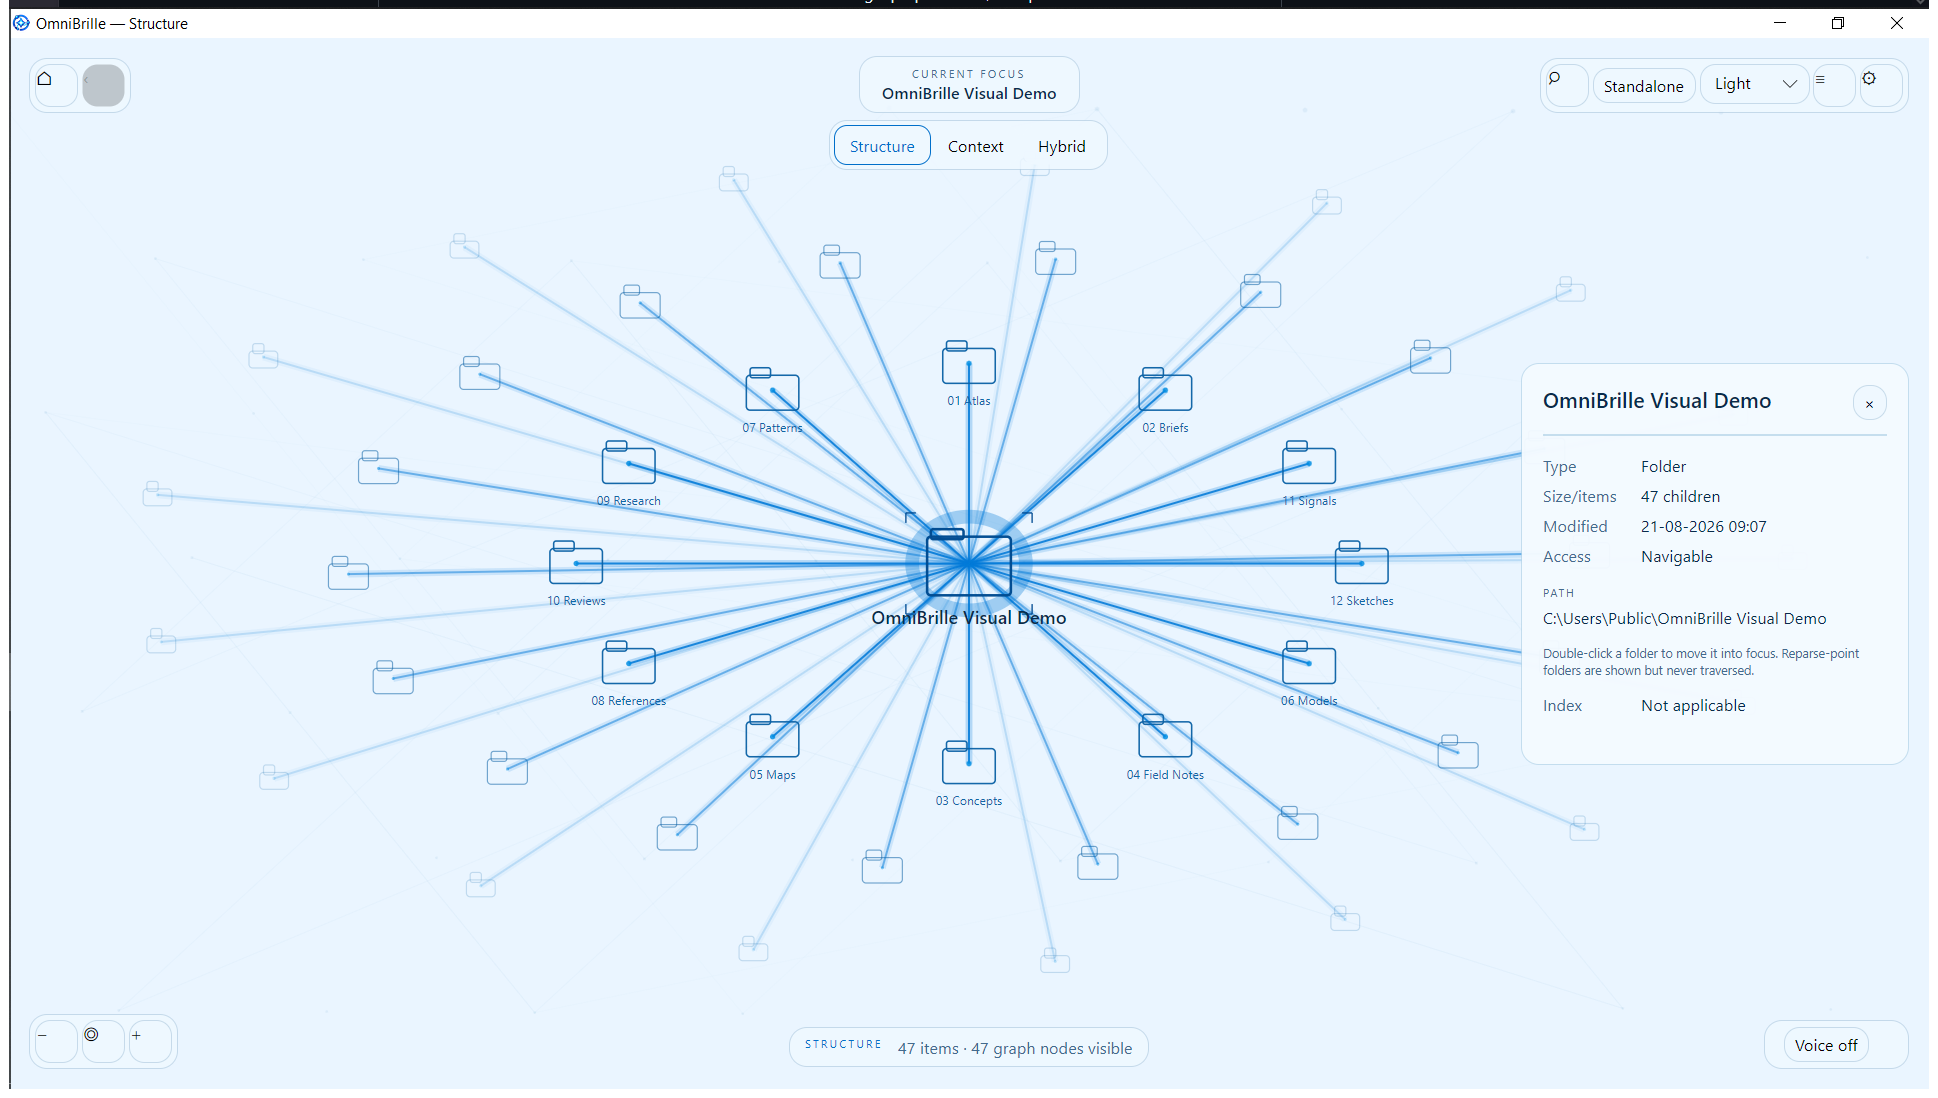
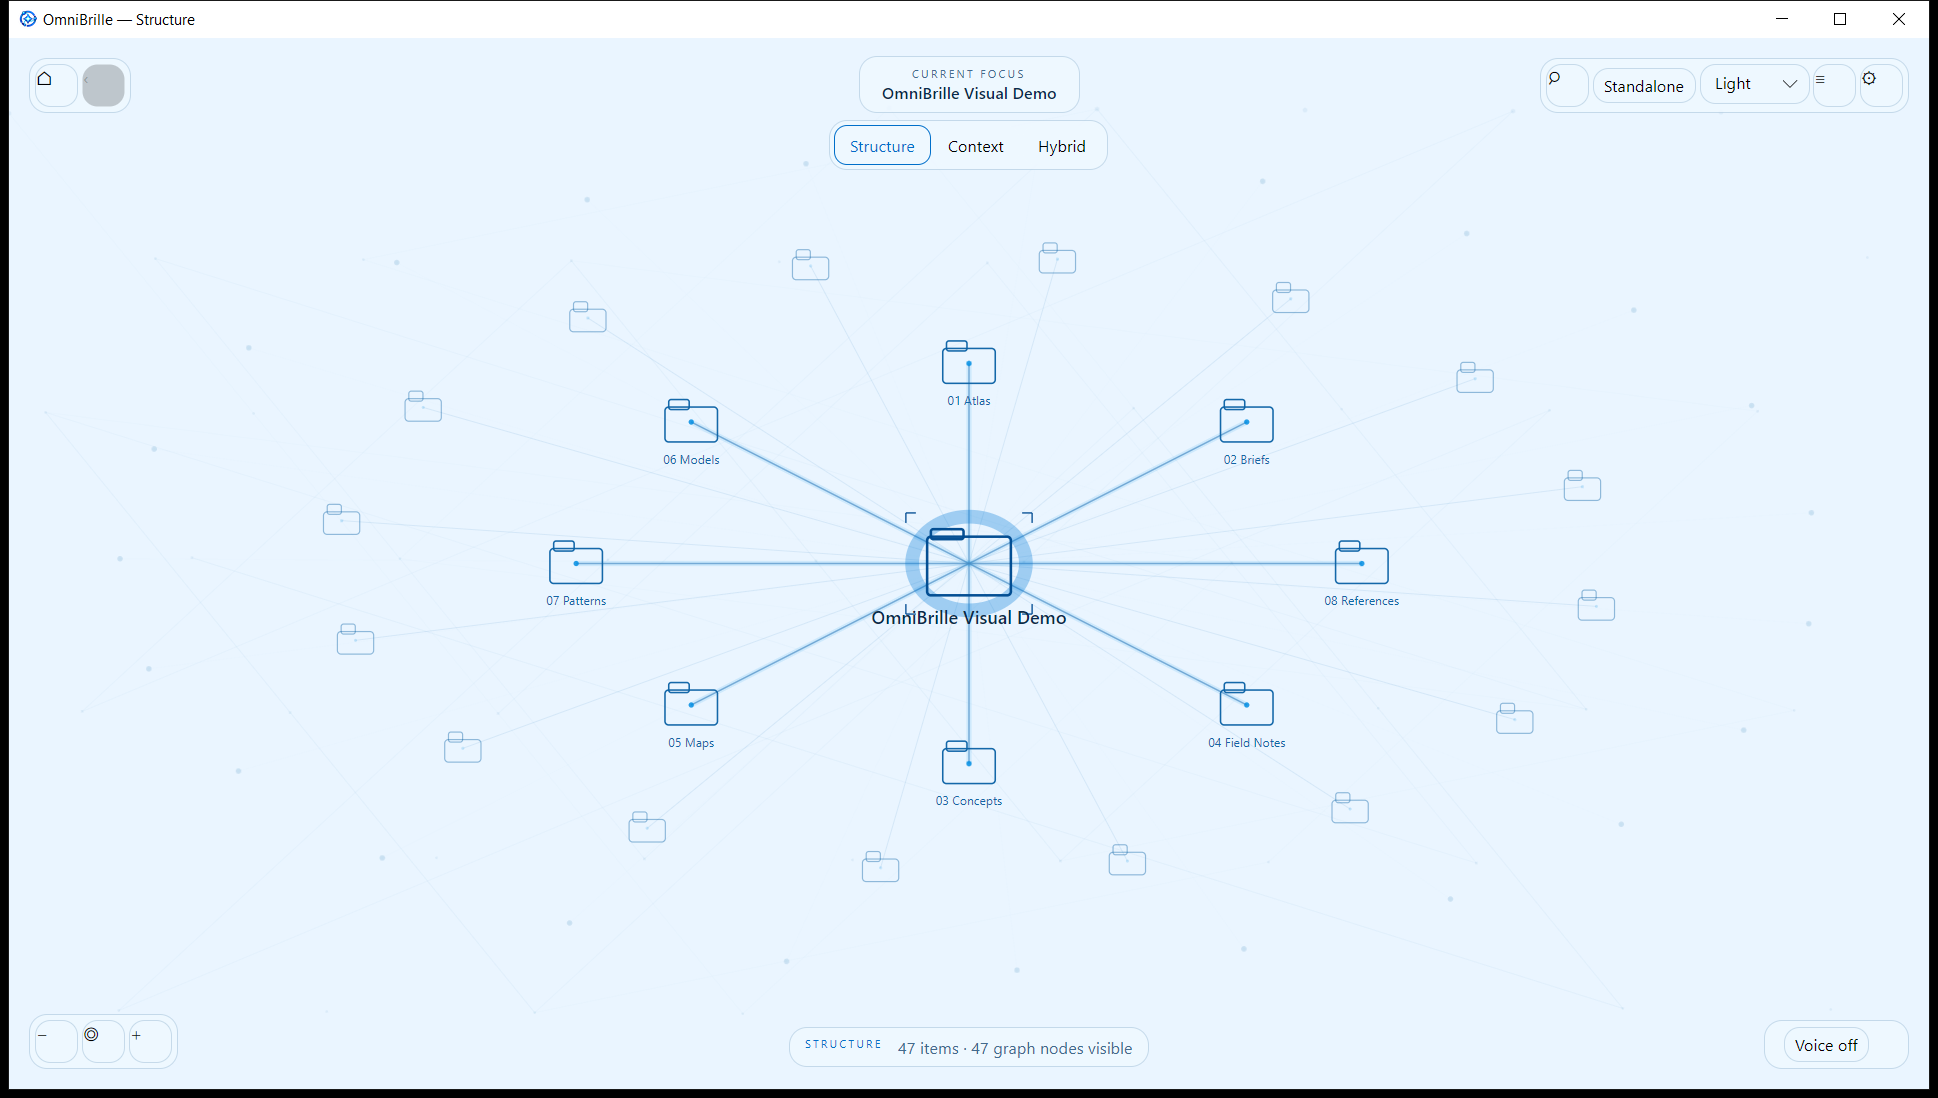
docs: recapture sparse v1.1 experience

diff --git a/docs/assets/screenshots/README.md b/docs/assets/screenshots/README.md
@@ -2,22 +2,23 @@
 
 ## v1.1 visual-convergence candidate
 
-The `v1.1-*.png` files are real captures of an installed Windows x64 `1.1.0` candidate. They are not mockups, concept art, or AI-generated application imagery.
+The `v1.1-*.png` files are real captures of an installed Windows x64 `1.1.0` candidate after the sparse focus-plane correction. They are not mockups, concept art, or AI-generated application imagery.
 
 - Capture date: 2026-08-21.
 - Host: Windows 10 build 19045 at 125% display scaling.
-- Visible application commit: `e308c72db1a86fd3a096fc19dcdca29df7b55920`.
[1 lines of base64/hex data omitted]
+- Visible application commit: `6f9f2ee580ac91135bb1c01894d3490ac680ebe6`.
[3 lines of base64/hex data omitted]
 - Executable metadata: file version `1.1.0.0`, product version `1.1.0`.
-- Demo roots: `C:\Users\Public\OmniBrille Visual Demo` and its `09 Research` child.
+- Demo root: `C:\Users\Public\OmniBrille Visual Demo` and its `09 Research` child.
 - Data: purpose-built generic folders; no personal content, private or personal user-profile path, diagnostics, OmniSorSe session, or voice data.
 - Views: dense Dark Structure, dense Light Structure, structural Search for `Research`, nested focus/details, and the synchronized accessible list.
[1 lines of base64/hex data omitted]
 
-The captures use a Per-Monitor-V2-aware process and the physical Win32 window bounds so the complete 125%-DPI window is represented. They use the documented fresh-user visual defaults: Reduced Motion off and Reduced Visual Effects off. They were inspected at full size for native window chrome; floating navigation, mode, Search, utility, zoom, status, voice, and details/list surfaces; graph nodes, labels, outlined glyphs, edges, focus reticle, Search emphasis, and theme contrast. The same installed candidate exercised arrow/Enter navigation, Alt+Left Back, `Ctrl+F` Search, `Ctrl+Shift+L` list access, normal close/relaunch, a real progressive 5,000-file load, the supported 820-by-520 logical minimum window, and both reduced settings enabled. The owner's pre-existing reduced preferences were backed up and restored byte-for-byte after capture. Automated headless coverage exercised 100/125/150/200% text scaling and the deterministic reduced-motion/effects contracts. No screen reader was used.
+The captures use `PrintWindow` from a Per-Monitor-V2-aware process and the physical Win32 window bounds so the complete 125%-DPI window is represented. They use the documented fresh-user visual defaults: Reduced Motion off and Reduced Visual Effects off. They were inspected at full size against the retained [original concept renders](../concepts/README.md) for complete native chrome; the crisp eight-node Structure focus plane; subdued secondary and atmospheric nodes; floating navigation, mode, Search, utility, zoom, status, voice, and details/list surfaces; outlined glyphs, truthful edges, focus reticle, Search promotion, and theme contrast. Search and accessible-list views show the bottom status surface yielding to their owning panels. The same installed candidate completed two normal close/relaunch cycles and clean uninstall; the owner's pre-existing preferences were backed up and restored byte-for-byte after capture. Automated headless coverage exercises 100/125/150/200% text scaling, exact graph/list/automation node parity, and deterministic reduced-motion/effects contracts. No screen reader was used.
 
-The images were captured before this provenance file and the PNGs themselves were committed. All five come from the same installed candidate after the first-run panel/status non-overlap correction; Search and accessible-list views show the bottom status surface yielding to the owning side panel. A later source change that can affect a represented state requires recapture. The eventual exact release installer must still be rebuilt from the final documentation/screenshot commit and separately pass installed-artifact and public-release qualification before these images can be described as release screenshots.
+All five images were recaptured from the same installed candidate after the sparse focus-plane and first-run panel/status corrections. A later source change that can affect a represented state requires recapture. The eventual exact release installer must still be rebuilt from the final documentation/screenshot commit and separately pass installed-artifact and public-release qualification before these images can be described as release screenshots.
 
 ## v1.0 release
 

diff --git a/RELEASE_CHECKLIST.md b/RELEASE_CHECKLIST.md
@@ -19,7 +19,7 @@ Checkboxes are maintainer gates. Automation does not mark manual checks complete
 - [x] Search is collapsed initially, expands/focuses on click or `Ctrl+F`, and dismisses without duplicating session query/result state.
 - [x] Focus, selected/immediate, secondary, and ambient hierarchy matches the retained original concepts while using only admitted nodes/edges and deterministic presentation bands.
 - [x] Dark, Light, dense, nested/details, Search-expanded, loading, and minimum-size source-candidate states were inspected on the interactive Windows host.
-- [ ] Final corrected screenshots bind one exact installed candidate and non-private data and are independently reviewed at full size.
+- [x] Final corrected screenshots bind one exact installed candidate and non-private data and are independently reviewed at full size.
 - [x] Actual Windows UIA exposure, keyboard traversal, visible focus, reduced motion/effects, and 125% display scaling are recorded separately from automated 100/125/150/200% text-scale coverage; no screen-reader use is claimed.
 - [x] Same-host representative renderer timings, allocations, accepted-label changes, and bounded cache capacities were compared with the pre-change baseline; no material unexplained regression remains.
 

diff --git a/ROADMAP.md b/ROADMAP.md
@@ -122,7 +122,7 @@ Status language is intentionally conservative: checked items exist in the applic
 - [x] Match the retained original concepts with an eight-node crisp Structure focus plane, subdued secondary glyphs, faint ambient siblings, and state-driven promotion; preserve node/edge admission and filesystem meaning.
 - [x] Refine the deep navy/cyan and pale ice-blue themes plus the bounded data-rain identity without adding blur, unbounded resources, or a second animation loop.
 - [x] Extend minimum-window, Search focus/dismissal, text-scale, hierarchy, keyboard, automation, reduced-effects, and renderer-profile validation.
-- [ ] Capture and independently review the final corrected v1.1.0 screenshot set from one exact candidate using non-private data.
+- [x] Capture and independently review the final corrected v1.1.0 screenshot set from one exact candidate using non-private data.
 - [ ] Complete exact-artifact and hosted lifecycle qualification for v1.1.0.
 - [ ] Record the v1.1.0 signing decision before publication; the owner’s prior unsigned authorization applies specifically to v1.0.0.
 - [ ] Publish v1.1.0 only after all release gates pass. The existing v1.0.0 tag and artifacts are immutable historical release evidence.

diff --git a/README.md b/README.md
@@ -18,11 +18,11 @@ Windows x64 is the only v1.0 download target. Interactive release qualification 
 
 ## See it in action
 
-![Dense Dark Structure view in OmniBrille's graph-first shell](docs/assets/screenshots/v1.1-dark-structure.png)
+![Focused Dark Structure plane in OmniBrille's graph-first shell](docs/assets/screenshots/v1.1-dark-structure.png)
 
-| Pale ice-blue Light theme | Compact Search within the selected root |
+| Sparse pale ice-blue Light plane | Compact Search within the selected root |
 |---|---|
-| ![Dense Light Structure view of the same demo workspace](docs/assets/screenshots/v1.1-light-structure.png) | ![Search results emphasized while unrelated graph nodes recede](docs/assets/screenshots/v1.1-search.png) |
+| ![Focused Light Structure plane with subdued surrounding nodes](docs/assets/screenshots/v1.1-light-structure.png) | ![Search results emphasized while unrelated graph nodes recede](docs/assets/screenshots/v1.1-search.png) |
 
 | Nested focus and integrated details | Accessible list synchronized with the bounded graph |
 |---|---|
